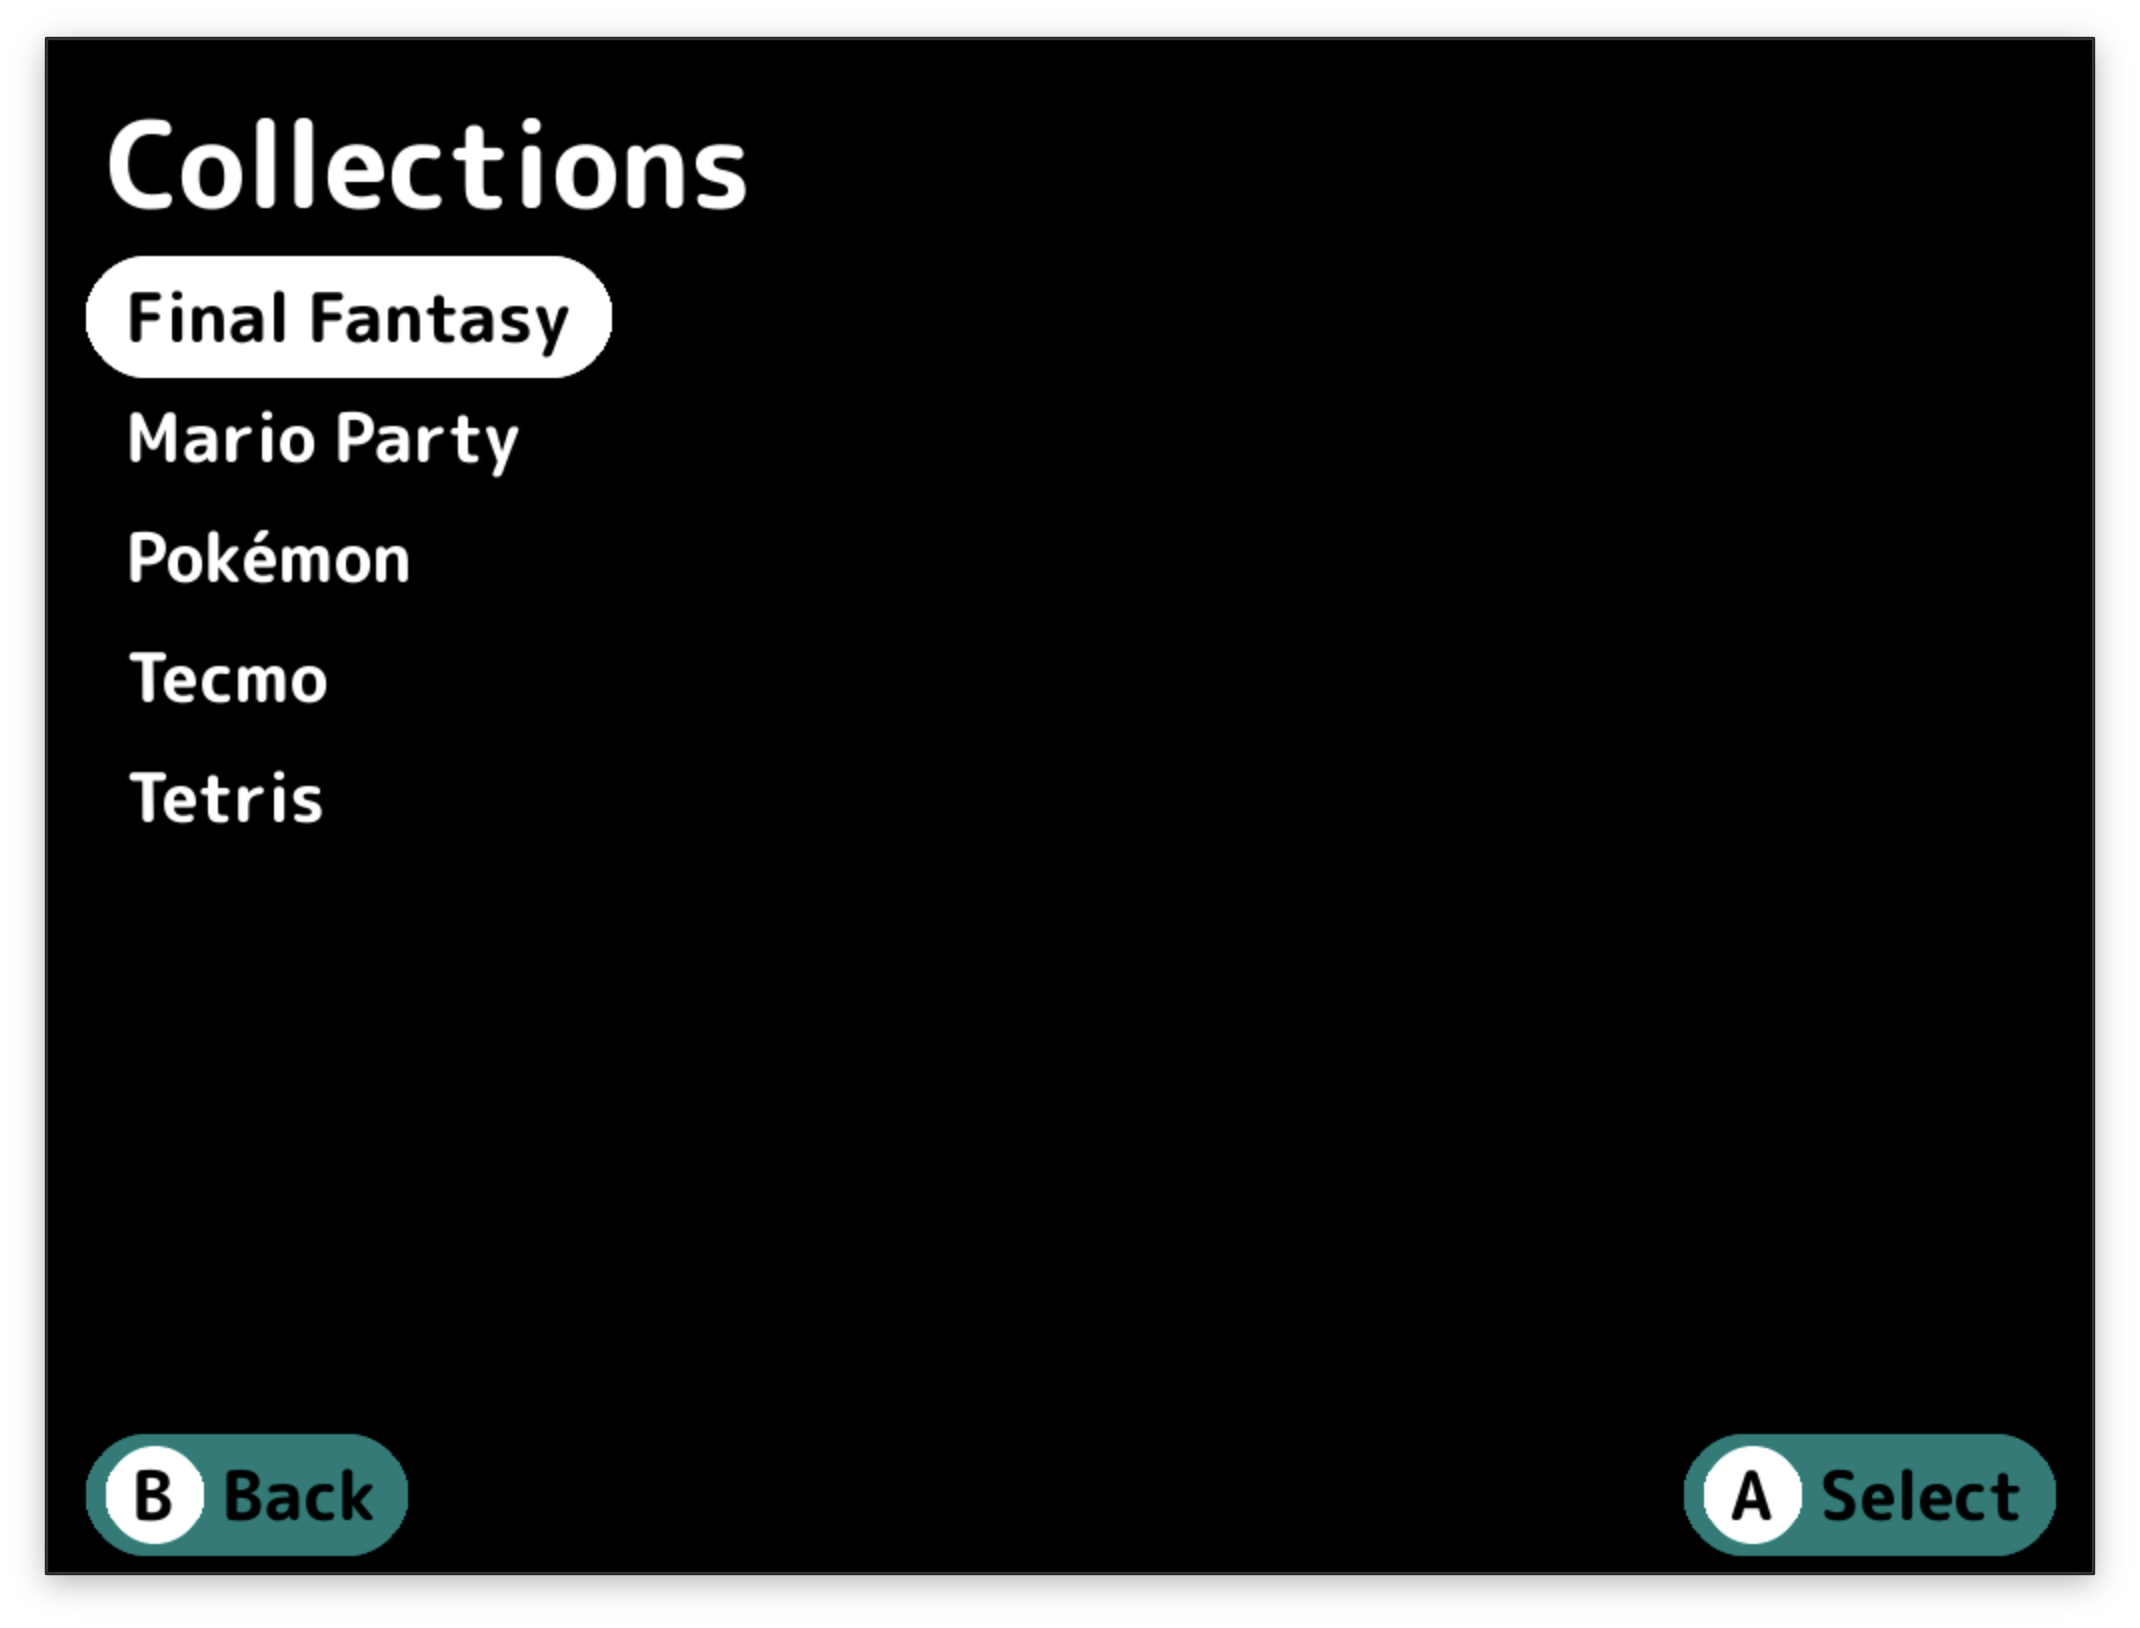
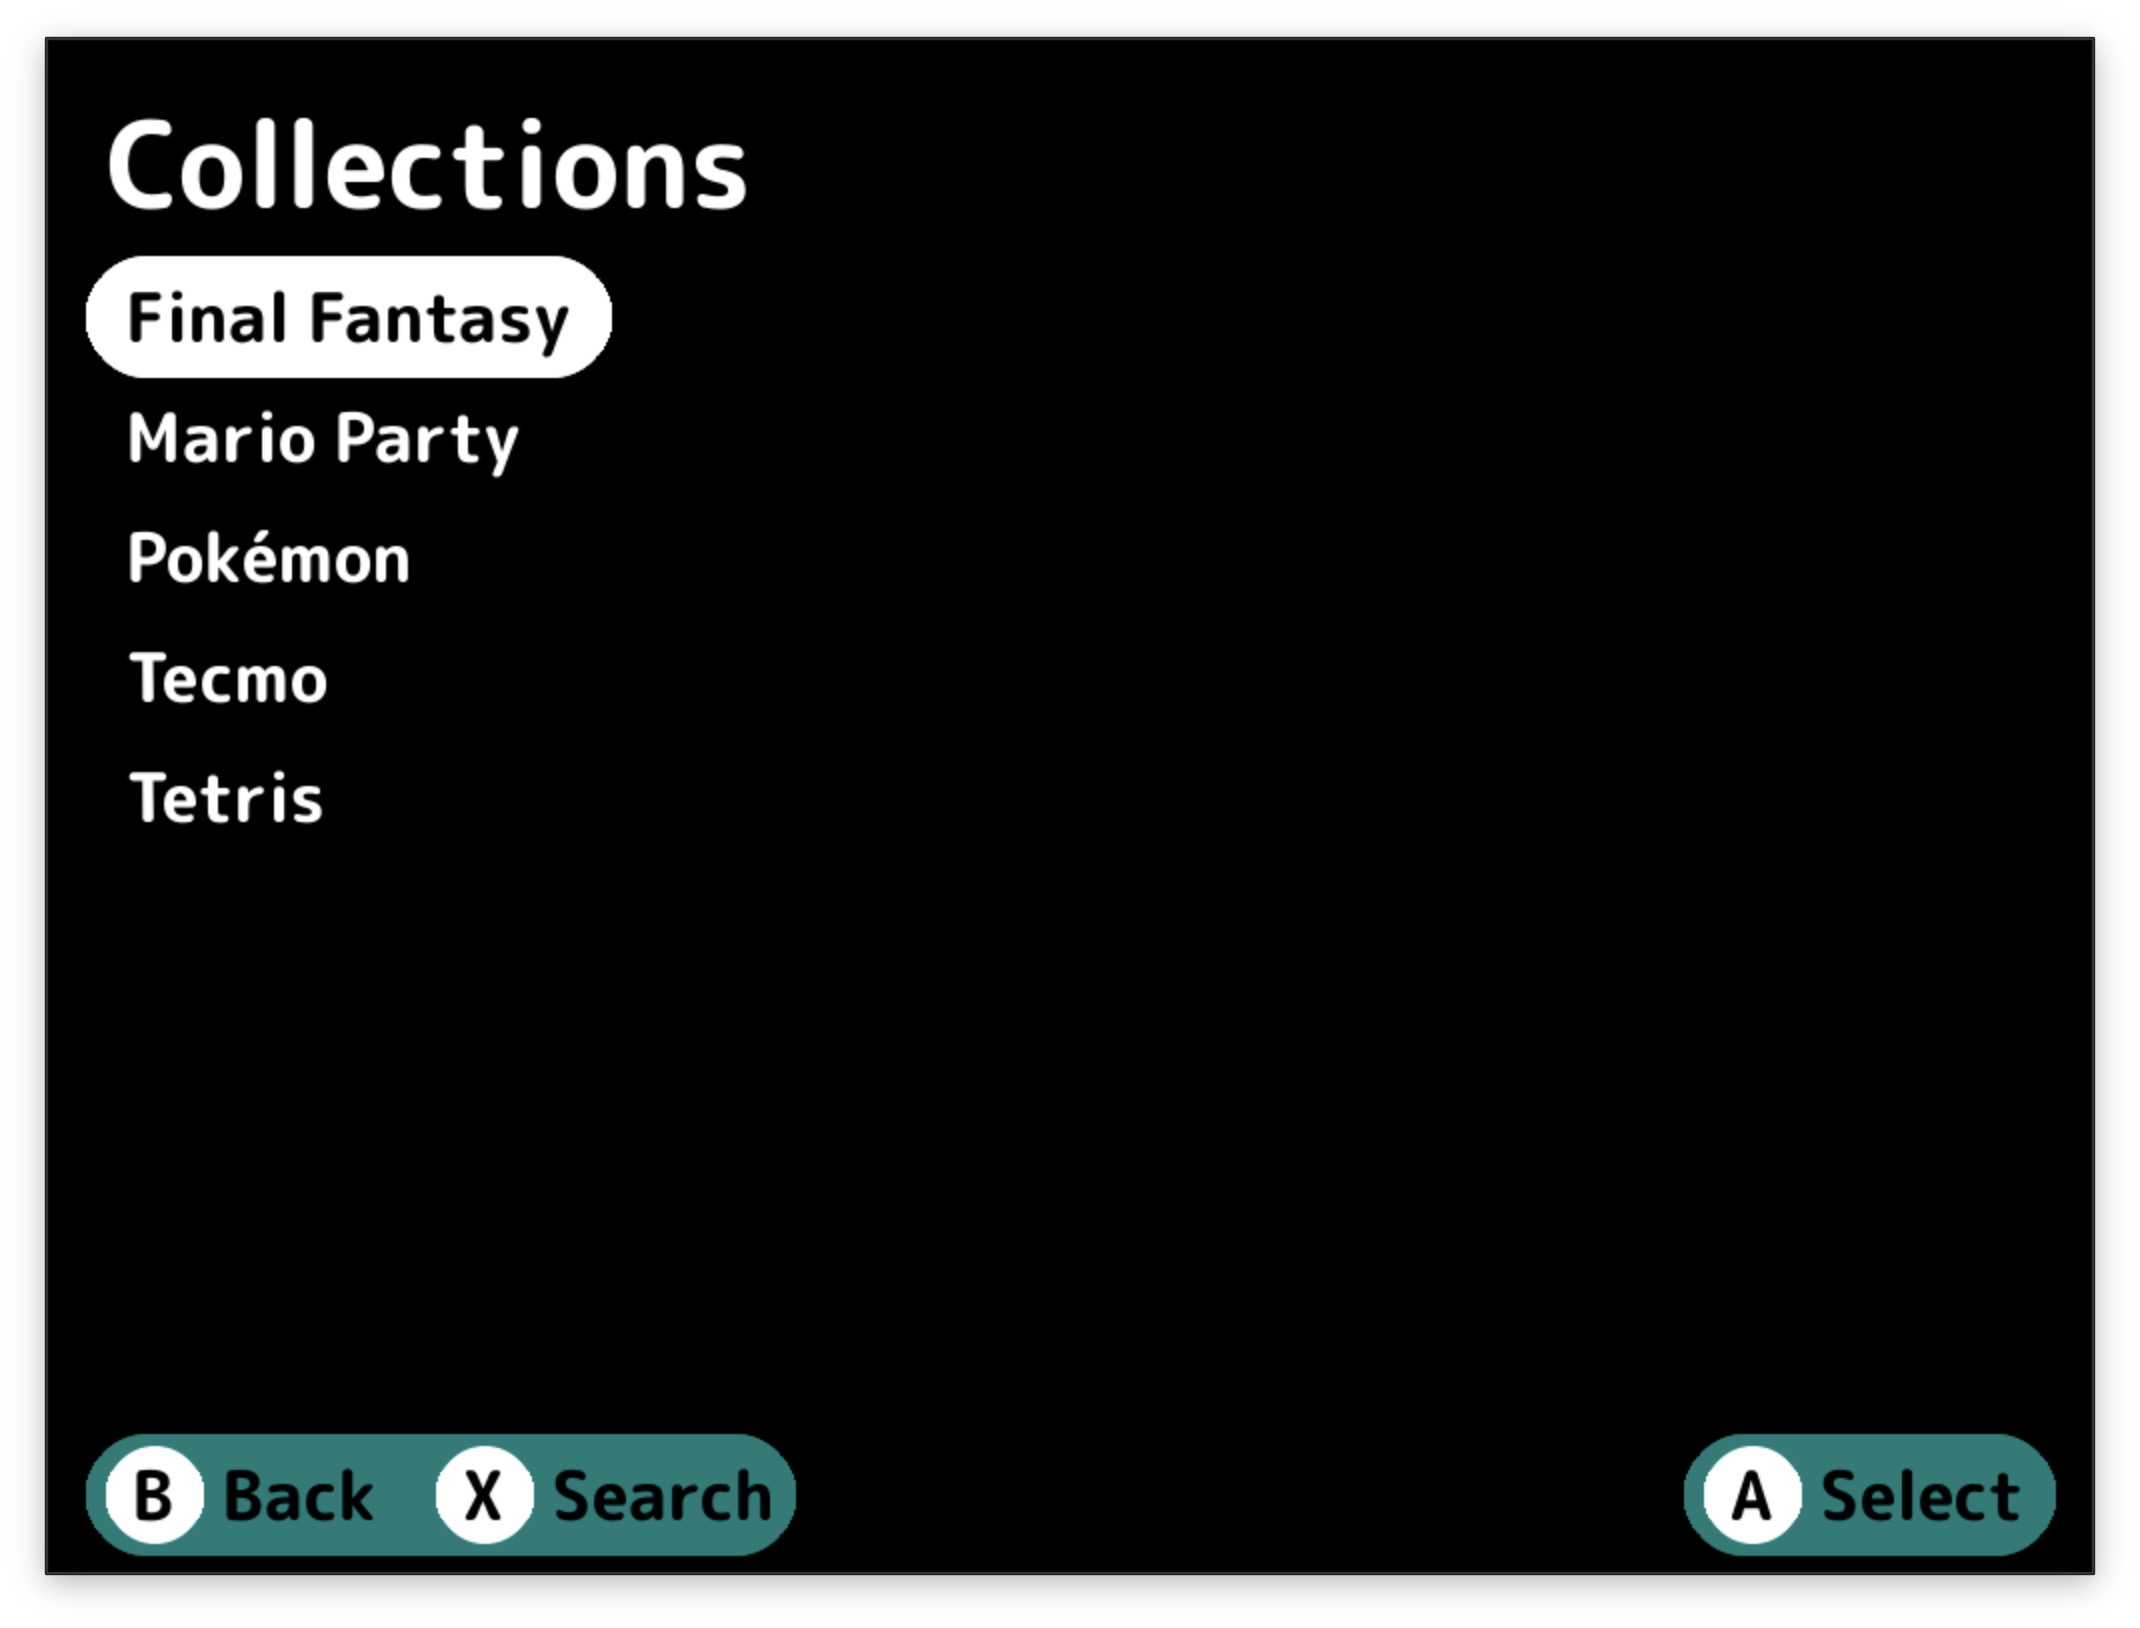
Foot help items changes and updated screenshots

Changed region(s): [[0.1542, 0.86, 0.3701, 0.9828]]

diff --git a/ui/games_list.go b/ui/games_list.go
@@ -114,7 +114,7 @@ func (s *GameListScreen) Draw(input GameListInput) (ScreenResult[GameListOutput]
 	title := displayName
 	if input.SearchFilter != "" {
 		message := i18n.GetStringWithData("games_list_search_prefix", map[string]interface{}{"Query": input.SearchFilter})
-		title = fmt.Sprintf("[%s] | %s", message, displayName)
+		title = fmt.Sprintf("%s | %s", message, displayName)
 		displayGames = filterList(displayGames, input.SearchFilter)
 	}
 
@@ -157,7 +157,6 @@ func (s *GameListScreen) Draw(input GameListInput) (ScreenResult[GameListOutput]
 	options.HelpExitText = i18n.GetString("help_exit_text")
 
 	options.FooterHelpItems = []gaba.FooterHelpItem{
-		{ButtonName: "B", HelpText: i18n.GetString("button_back")},
 		{ButtonName: i18n.GetString("button_menu"), HelpText: i18n.GetString("button_help")},
 		{ButtonName: "X", HelpText: i18n.GetString("button_search")},
 		{ButtonName: "A", HelpText: i18n.GetString("button_select")},

diff --git a/ui/platform_selection.go b/ui/platform_selection.go
@@ -65,7 +65,6 @@ func (s *PlatformSelectionScreen) Draw(input PlatformSelectionInput) (ScreenResu
 	var footerItems []gaba.FooterHelpItem
 	if input.QuitOnBack {
 		footerItems = []gaba.FooterHelpItem{
-			{ButtonName: "B", HelpText: i18n.GetString("button_quit")},
 			{ButtonName: "X", HelpText: i18n.GetString("button_settings")},
 			{ButtonName: "Y", HelpText: i18n.GetString("button_save_sync")},
 			{ButtonName: "A", HelpText: i18n.GetString("button_select")},
